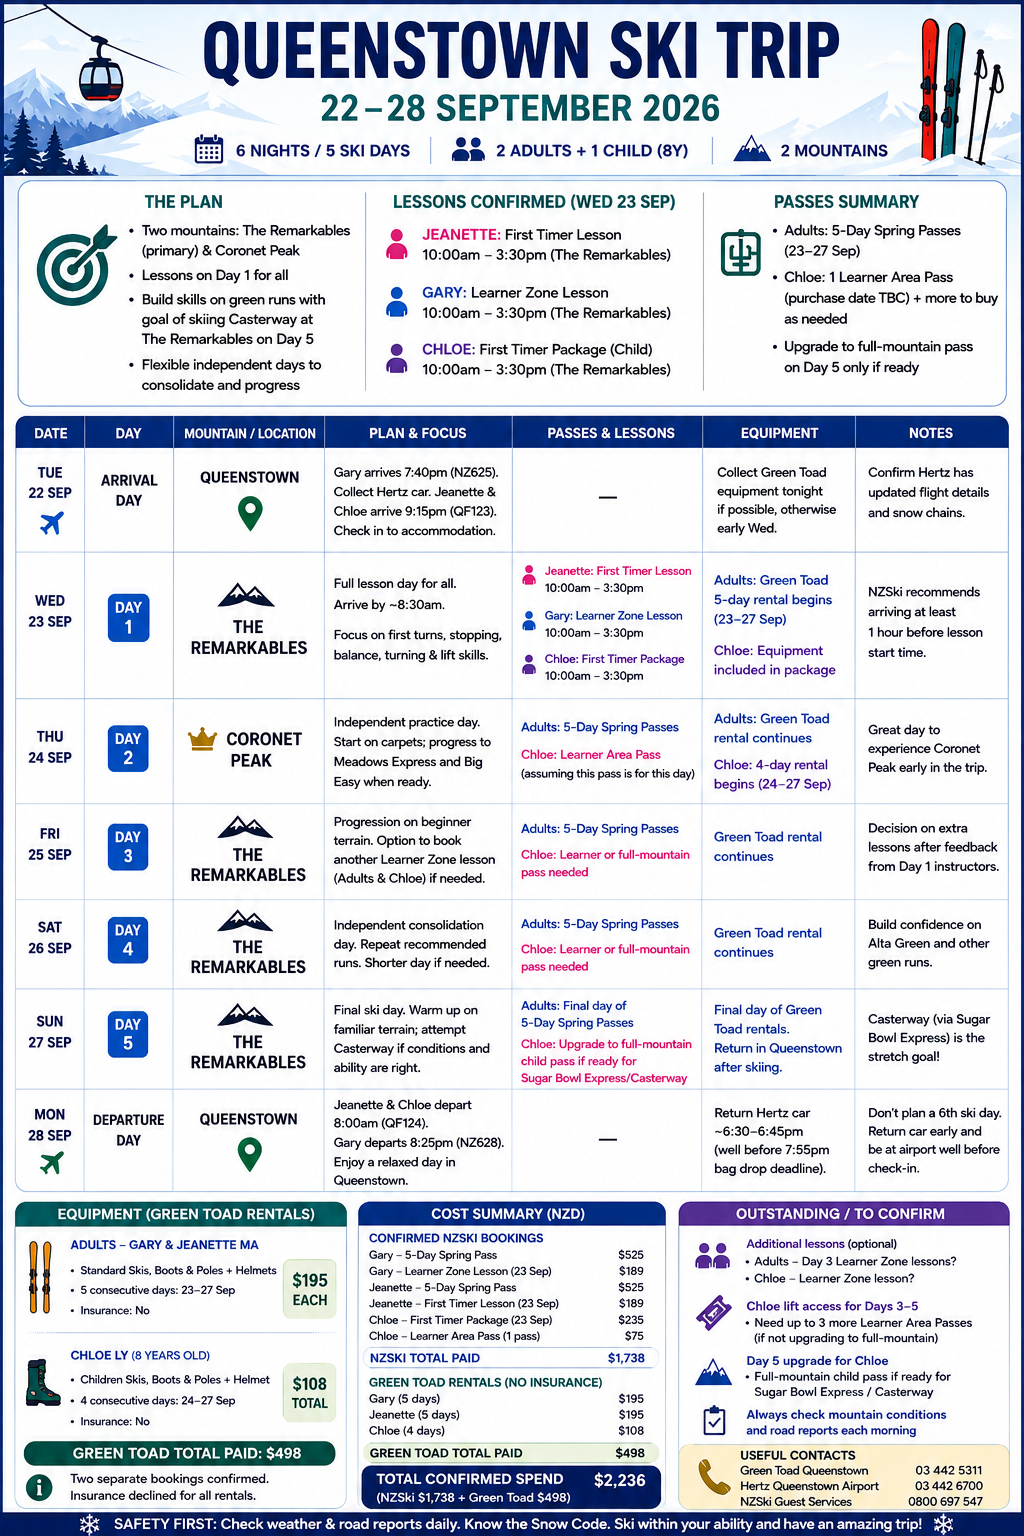
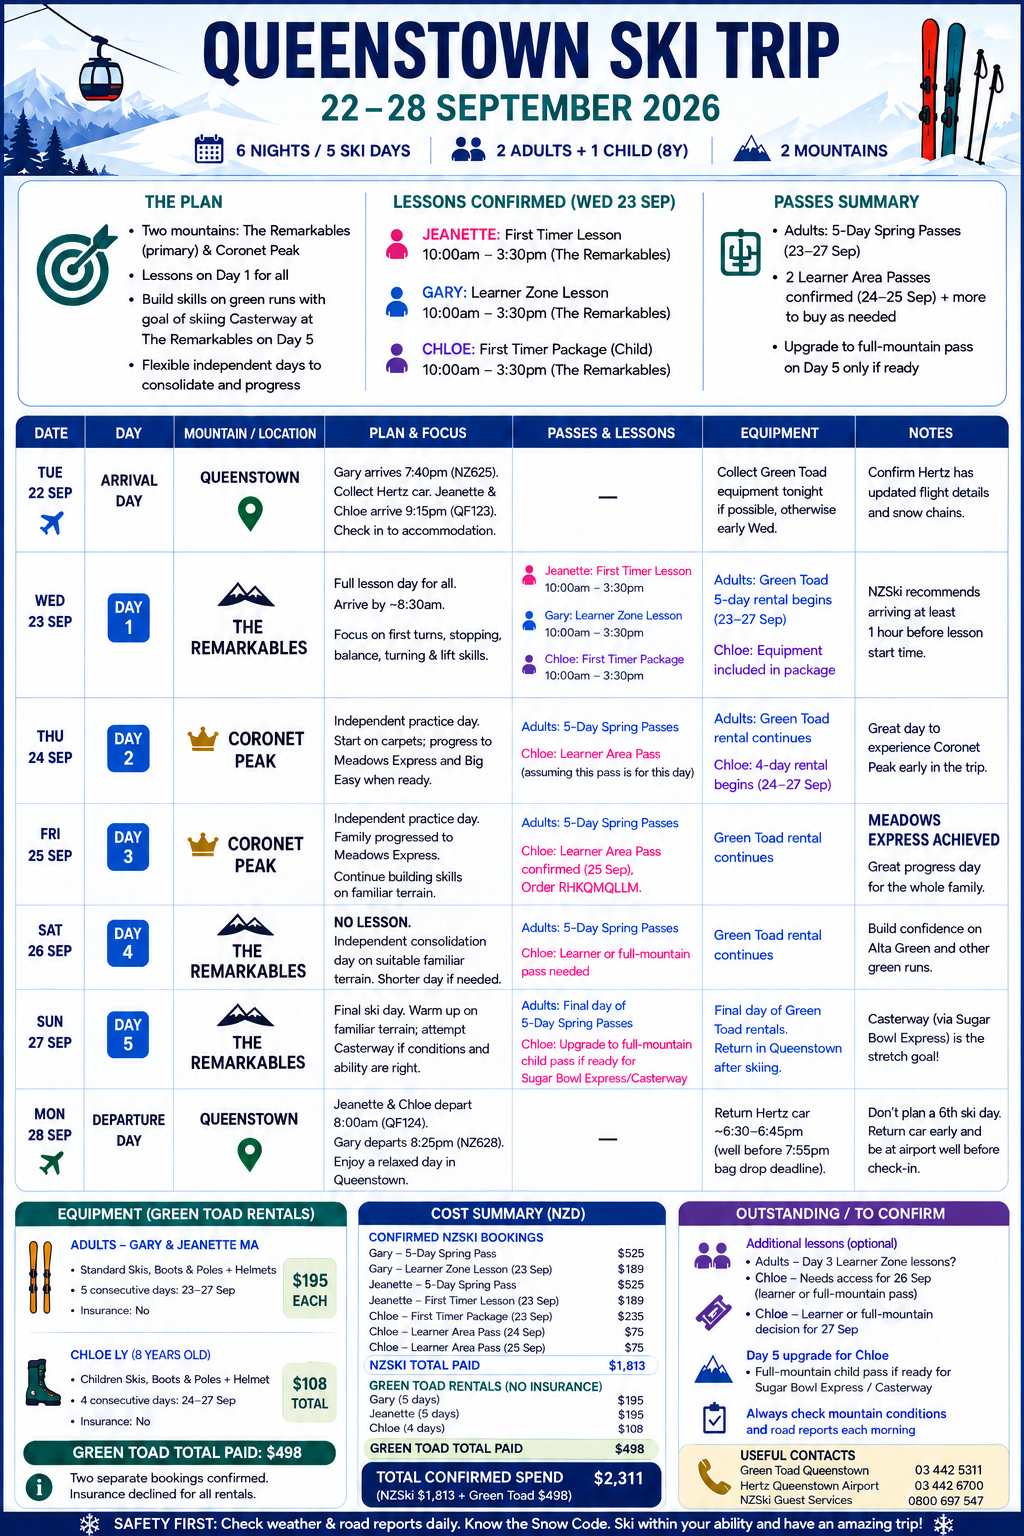
Update trip progress and Chloe learner pass

diff --git a/index.html b/index.html
@@ -252,7 +252,7 @@
         <span class="hero-pill">22–28 Sep 2026</span>
         <span class="hero-pill">5 ski days</span>
         <span class="hero-pill">The Remarkables + Coronet Peak</span>
-        <span class="hero-pill">NZ$2,236 confirmed</span>
+        <span class="hero-pill">NZ$2,311 confirmed</span>
       </div>
     </div>
   </header>
@@ -291,7 +291,7 @@
         </div>
 
         <div class="metrics" aria-label="Trip totals">
-          <div class="metric"><span class="metric-label">Confirmed spend</span><strong>NZ$2,236</strong><em>NZSki + Green Toad</em></div>
+          <div class="metric"><span class="metric-label">Confirmed spend</span><strong>NZ$2,311</strong><em>NZSki + Green Toad</em></div>
           <div class="metric"><span class="metric-label">Ski days</span><strong>5</strong><em>Wed 23 – Sun 27</em></div>
           <div class="metric"><span class="metric-label">Confirmed lessons</span><strong>3</strong><em>All on Wed 23</em></div>
           <div class="metric"><span class="metric-label">Rental days</span><strong>5 / 5 / 4</strong><em>Gary / Jeanette / Chloe</em></div>
@@ -304,8 +304,8 @@
               <div class="route-item"><div class="route-date">Tue 22</div><div class="route-main"><strong>Arrive in Queenstown</strong><span>Gary 7:40pm · Jeanette + Chloe 9:15pm · collect Hertz</span></div><span class="route-tag travel">Travel</span></div>
               <div class="route-item"><div class="route-date">Wed 23</div><div class="route-main"><strong>The Remarkables · lesson day</strong><span>Gary Learner Zone · Jeanette + Chloe First Timer · 10:00–3:30</span></div><span class="route-tag lesson">Booked</span></div>
               <div class="route-item"><div class="route-date">Thu 24</div><div class="route-main"><strong>Coronet Peak · consolidate</strong><span>Carpets first; Meadows Express and Big Easy only when ready</span></div><span class="route-tag">Practice</span></div>
-              <div class="route-item"><div class="route-date">Fri 25</div><div class="route-main"><strong>The Remarkables · progress</strong><span>Independent practice; optional Learner Zone lessons remain unbooked</span></div><span class="route-tag">Flexible</span></div>
-              <div class="route-item"><div class="route-date">Sat 26</div><div class="route-main"><strong>The Remarkables · consolidate</strong><span>Shorter, flexible day on instructor-recommended terrain</span></div><span class="route-tag">Practice</span></div>
+              <div class="route-item"><div class="route-date">Fri 25</div><div class="route-main"><strong>Coronet Peak · Meadows Express achieved</strong><span>Independent practice; the family progressed to Meadows Express</span></div><span class="route-tag lesson">Achieved</span></div>
+              <div class="route-item"><div class="route-date">Sat 26</div><div class="route-main"><strong>The Remarkables · independent consolidation</strong><span>No lesson; practise controlled turns on suitable familiar terrain</span></div><span class="route-tag">No lesson</span></div>
               <div class="route-item"><div class="route-date">Sun 27</div><div class="route-main"><strong>The Remarkables · family finale</strong><span>Alta Green warm-up; Casterway only if ability and conditions align</span></div><span class="route-tag">Final ski</span></div>
               <div class="route-item"><div class="route-date">Mon 28</div><div class="route-main"><strong>Departures</strong><span>Jeanette + Chloe 8:00am · Gary 8:25pm · Hertz 6:30–6:45pm</span></div><span class="route-tag travel">Travel</span></div>
             </div>
@@ -316,9 +316,9 @@
               <h3>Confirmed spend</h3>
               <p class="muted small">All amounts NZD. Insurance was declined.</p>
               <div class="cost-list">
-                <div class="cost-row"><span>NZSki</span><strong>NZ$1,738</strong></div>
+                <div class="cost-row"><span>NZSki</span><strong>NZ$1,813</strong></div>
                 <div class="cost-row"><span>Green Toad</span><strong>NZ$498</strong></div>
-                <div class="cost-row"><span>Total paid</span><strong>$2,236</strong></div>
+                <div class="cost-row"><span>Total paid</span><strong>$2,311</strong></div>
               </div>
               <span class="ref">NZSki order W7YQG6F86</span>
             </div>
@@ -329,7 +329,7 @@
                 <tbody>
                   <tr><td><strong>Gary</strong><br><span class="muted small">Spring Pass + lesson + hire</span></td><td>$714</td><td><strong>$909</strong></td></tr>
                   <tr><td><strong>Jeanette</strong><br><span class="muted small">Spring Pass + lesson + hire</span></td><td>$714</td><td><strong>$909</strong></td></tr>
-                  <tr><td><strong>Chloe</strong><br><span class="muted small">Package + pass + hire</span></td><td>$310</td><td><strong>$418</strong></td></tr>
+                  <tr><td><strong>Chloe</strong><br><span class="muted small">Package + 2 passes + hire</span></td><td>$385</td><td><strong>$493</strong></td></tr>
                 </tbody>
               </table>
             </div>
@@ -389,33 +389,33 @@
       </section>
 
       <section class="panel" id="fri" role="tabpanel" aria-labelledby="tab-fri" tabindex="0" hidden>
-        <div class="panel-head"><div><span class="kicker">Friday · 25 September · Ski day 3</span><h2>The Remarkables · progression day</h2><p class="lede">Return to the broader beginner terrain. Optional Learner Zone lessons are still a decision, not a confirmed booking.</p></div><span class="status-badge plan">Lessons optional</span></div>
+        <div class="panel-head"><div><span class="kicker">Friday · 25 September · Ski day 3</span><h2>Coronet Peak · Meadows Express achieved</h2><p class="lede">Independent practice paid off today: the family progressed from the learner area up to Meadows Express.</p></div><span class="status-badge">Progress confirmed</span></div>
         <div class="day-layout">
           <div class="timeline">
-            <div class="time-row"><div class="time">Morning</div><div class="time-copy"><strong>Warm up on known terrain</strong><span>Begin on conveyors. Re-establish consistent stops and linked turns before moving higher.</span></div></div>
-            <div class="time-row"><div class="time">10:00am</div><div class="time-copy"><strong>Optional lesson window</strong><span>If booked after Wednesday’s assessment, use Learner Zone or the level specifically recommended for each person.</span></div></div>
-            <div class="time-row"><div class="time">Afternoon</div><div class="time-copy"><strong>Build chairlift confidence</strong><span>Use Alta Green when ready. Focus on controlled linked turns and speed through turn shape.</span></div></div>
-            <div class="time-row"><div class="time">3:30pm</div><div class="time-copy"><strong>Ask for Sunday guidance</strong><span>If in a lesson, ask whether Alta Green is independently suitable and whether Casterway is realistic after two more days.</span></div></div>
+            <div class="time-row"><div class="time">Morning</div><div class="time-copy"><strong>Warm up on familiar terrain</strong><span>The family began by consolidating controlled stops, turns and speed management in the learner area.</span></div></div>
+            <div class="time-row"><div class="time">Today</div><div class="time-copy"><strong>Progressed to Meadows Express</strong><span>All three reached the chairlift progression stage at Coronet Peak - an important trip milestone.</span></div></div>
+            <div class="time-row"><div class="time">Afternoon</div><div class="time-copy"><strong>Consolidated the new level</strong><span>Focused on confidence, controlled turns and safe lift use rather than rushing to harder terrain.</span></div></div>
+            <div class="time-row"><div class="time">Next step</div><div class="time-copy"><strong>Carry this confidence into Saturday</strong><span>Tomorrow is an independent no-lesson day; repeat suitable terrain and keep progression measured.</span></div></div>
           </div>
           <aside class="stack">
-            <div class="card"><h3>Access and equipment</h3><ul class="info-list"><li><b>Adults</b>Spring Passes + Day 3 of Green Toad rentals.</li><li><b>Chloe</b>Needs a new learner or full-mountain pass; none is currently confirmed for this date.</li><li><b>All three</b>Green Toad gear; Chloe is on Day 2 of her four-day booking.</li></ul></div>
-            <div class="callout"><strong>Do not assume one family level.</strong> Gary, Jeanette and Chloe may progress at different rates. Match any lesson and terrain choice to each skier’s actual Wednesday assessment.</div>
+            <div class="card"><h3>Access and equipment</h3><ul class="info-list"><li><b>Adults</b>Spring Passes + Day 3 of Green Toad rentals.</li><li><b>Chloe · confirmed</b>Learner Area Pass dated 25 Sep, NZ$75. Order RHKQMQLLM.</li><li><b>All three</b>Green Toad gear; Chloe is on Day 2 of her four-day booking.</li></ul></div>
+            <div class="callout"><strong>Milestone recorded:</strong> the family reached Meadows Express at Coronet Peak. Use that real-world progress - rather than the calendar alone - to choose Saturday’s terrain.</div>
           </aside>
         </div>
       </section>
 
       <section class="panel" id="sat" role="tabpanel" aria-labelledby="tab-sat" tabindex="0" hidden>
-        <div class="panel-head"><div><span class="kicker">Saturday · 26 September · Ski day 4</span><h2>The Remarkables · consolidate</h2><p class="lede">Keep the day deliberately flexible. Repetition on familiar terrain will do more than forcing a new run while tired.</p></div><span class="status-badge plan">Flexible day</span></div>
+        <div class="panel-head"><div><span class="kicker">Saturday · 26 September · Ski day 4</span><h2>The Remarkables · independent consolidation</h2><p class="lede">No lesson tomorrow. Build on today’s Meadows Express progress with a flexible independent day on suitable terrain.</p></div><span class="status-badge plan">No lesson</span></div>
         <div class="day-layout">
           <div class="timeline">
-            <div class="time-row"><div class="time">Morning</div><div class="time-copy"><strong>Check conditions and energy</strong><span>Decide on a normal start, a shorter day, or a slower morning based on wind, visibility and fatigue.</span></div></div>
+            <div class="time-row"><div class="time">Morning</div><div class="time-copy"><strong>Check conditions and energy</strong><span>There is no lesson booking. Decide on a normal start, a shorter day, or a slower morning based on wind, visibility and fatigue.</span></div></div>
             <div class="time-row"><div class="time">First laps</div><div class="time-copy"><strong>Repeat instructor-approved terrain</strong><span>Begin at the easiest appropriate level; move to Alta Green only with controlled speed and direction.</span></div></div>
             <div class="time-row"><div class="time">Midday</div><div class="time-copy"><strong>Take a real recovery break</strong><span>Hydrate, warm up and reassess Chloe’s energy. There is no need to use every operating minute.</span></div></div>
             <div class="time-row"><div class="time">Afternoon</div><div class="time-copy"><strong>Prepare for the finale</strong><span>Finish with clean, confident runs rather than experimenting late in the day.</span></div></div>
           </div>
           <aside class="stack">
             <div class="card"><h3>Passes and gear</h3><ul class="info-list"><li><b>Adults</b>Spring Passes + Day 4 of Green Toad rentals.</li><li><b>Chloe</b>Needs another learner or full-mountain pass; Green Toad Day 3.</li><li><b>Fallback</b>Keep mountain choice weather-responsive, but The Remarkables is preferred.</li></ul></div>
-            <div class="callout">Coronet Peak has an MTB-on-snow event scheduled around beginner-relevant terrain on this date. The Remarkables’ event activity is centred more on its terrain park, supporting the preferred plan here.</div>
+            <div class="callout"><strong>No lesson is planned.</strong> Coronet Peak has an MTB-on-snow event scheduled around beginner-relevant terrain on this date. The Remarkables’ event activity is centred more on its terrain park, supporting the preferred plan here.</div>
           </aside>
         </div>
       </section>
@@ -462,8 +462,7 @@
         </div>
         <div class="checks">
           <div class="check-item"><input type="checkbox" id="a1" data-check><label for="a1"><strong>Confirm Chloe’s existing Learner Area Pass date</strong><span>NZSki order W7YQG6F86 includes one $75 child pass, but its assigned date is not visible. Intended use is likely Thu 24 Sep.</span></label><span class="priority">Book first</span></div>
-          <div class="check-item"><input type="checkbox" id="a2" data-check><label for="a2"><strong>Buy Chloe’s remaining ski-day access</strong><span>Arrange access for Fri 25 and Sat 26; decide learner versus full-mountain access for Sun 27 after assessment.</span></label><span class="priority">Required</span></div>
-          <div class="check-item"><input type="checkbox" id="a3" data-check><label for="a3"><strong>Decide on Friday lessons after Day 1</strong><span>No additional adult or Chloe lessons are booked. Use Wednesday’s instructor feedback to choose Learner Zone, another level, or independent practice.</span></label><span class="priority optional">Optional</span></div>
+          <div class="check-item"><input type="checkbox" id="a2" data-check><label for="a2"><strong>Buy Chloe’s remaining ski-day access</strong><span>Friday 25 Sep is now confirmed. Arrange access for Sat 26; decide learner versus full-mountain access for Sun 27 based on current progress.</span></label><span class="priority">Required</span></div>
           <div class="check-item"><input type="checkbox" id="a4" data-check><label for="a4"><strong>Confirm Green Toad collection arrangements</strong><span>Check whether Tuesday evening collection is realistic after Gary’s 7:40pm landing; otherwise plan an early Wednesday fitting.</span></label><span class="priority">Required</span></div>
           <div class="check-item"><input type="checkbox" id="a5" data-check><label for="a5"><strong>Confirm Green Toad Sunday return</strong><span>Verify the shop, closing time and return process for all three rental sets after skiing on 27 Sep.</span></label><span class="priority">Required</span></div>
           <div class="check-item"><input type="checkbox" id="a6" data-check><label for="a6"><strong>Update the Hertz reservation</strong><span>Add NZ625 and ~8:15pm pickup; confirm the vehicle will be held, the drivetrain, snow chains, and a 6:30–6:45pm return on 28 Sep.</span></label><span class="priority">Book first</span></div>
@@ -472,8 +471,8 @@
         </div>
 
         <div class="summary-grid" style="margin-top:1rem">
-          <div class="card"><h3>Already confirmed</h3><ul class="info-list"><li><b>NZSki · $1,738</b>Two adult Spring Passes, three Day 1 lessons/packages, and one Chloe Learner Area Pass.</li><li><b>Green Toad · $498</b>Gary and Jeanette 23–27 Sep at $195 each; Chloe 24–27 Sep at $108.</li><li><b>Insurance</b>Declined for every Green Toad rental; $0 added.</li></ul></div>
-          <div class="card accent"><h3>Reconciled total</h3><div class="cost-list"><div class="cost-row"><span>Gary</span><strong>$909</strong></div><div class="cost-row"><span>Jeanette</span><strong>$909</strong></div><div class="cost-row"><span>Chloe</span><strong>$418</strong></div><div class="cost-row"><span>Family paid</span><strong>$2,236</strong></div></div></div>
+          <div class="card"><h3>Already confirmed</h3><ul class="info-list"><li><b>NZSki · $1,813</b>Two adult Spring Passes, three Day 1 lessons/packages, and two Chloe Learner Area Passes, including order RHKQMQLLM for 25 Sep.</li><li><b>Green Toad · $498</b>Gary and Jeanette 23–27 Sep at $195 each; Chloe 24–27 Sep at $108.</li><li><b>Insurance</b>Declined for every Green Toad rental; $0 added.</li></ul></div>
+          <div class="card accent"><h3>Reconciled total</h3><div class="cost-list"><div class="cost-row"><span>Gary</span><strong>$909</strong></div><div class="cost-row"><span>Jeanette</span><strong>$909</strong></div><div class="cost-row"><span>Chloe</span><strong>$493</strong></div><div class="cost-row"><span>Family paid</span><strong>$2,311</strong></div></div></div>
         </div>
       </section>
     </main>
